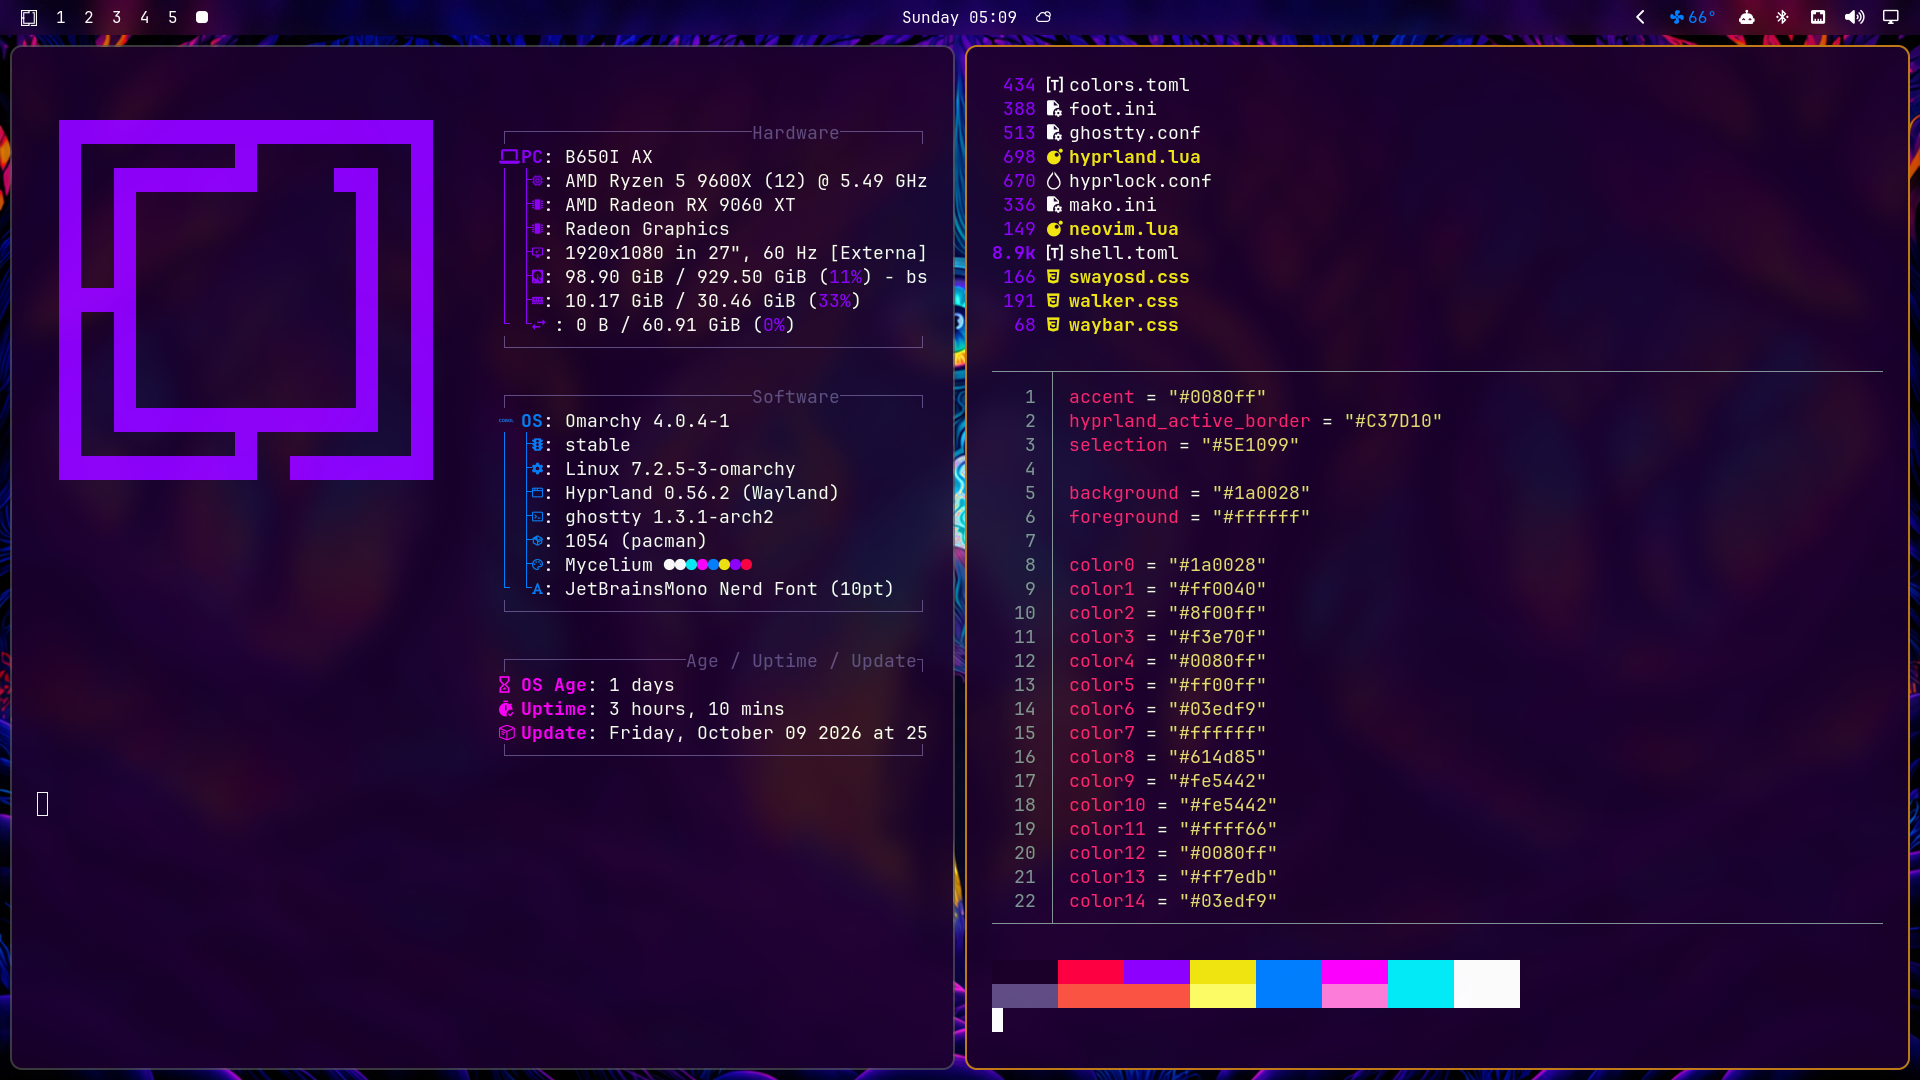
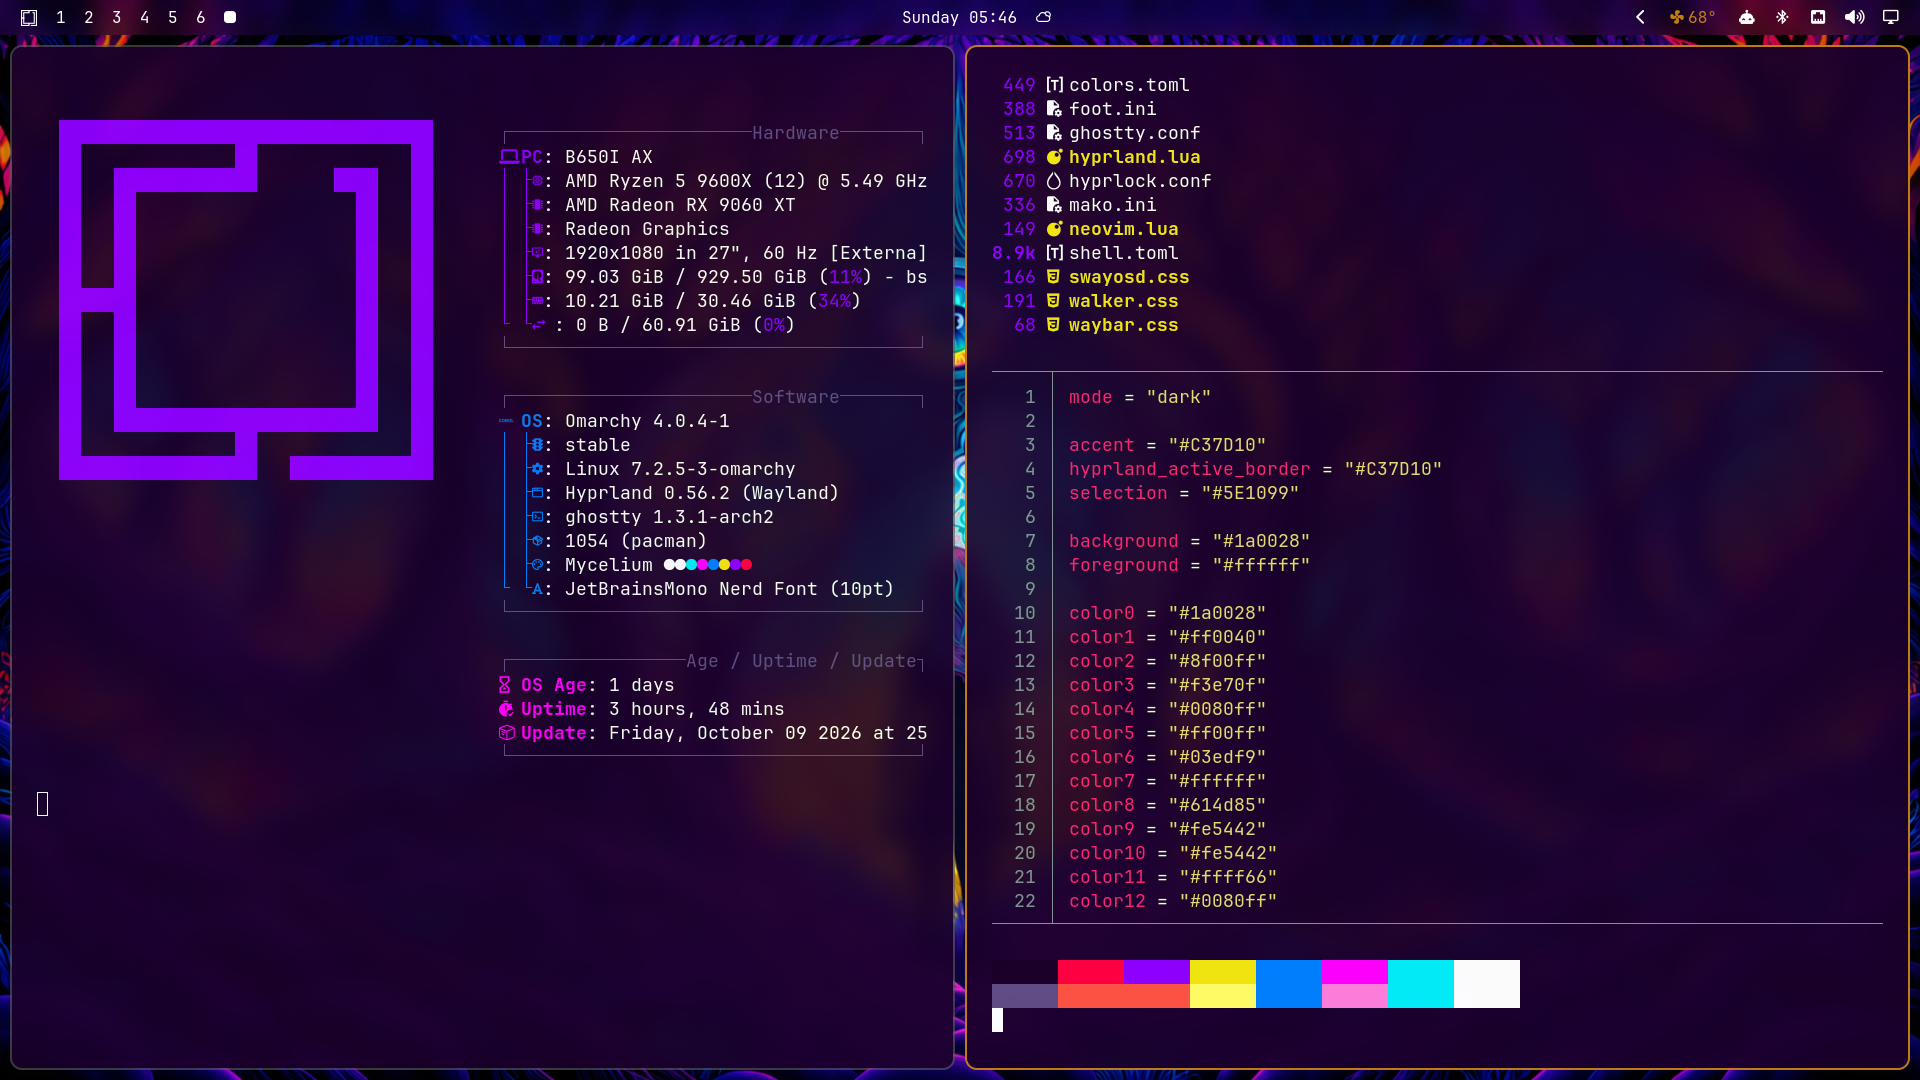
Refresh screenshots with amber accents, add menu and password prompt previews

Changed region(s): [[0.5625, 0.3667, 0.75, 0.8556], [0.0938, 0.0, 0.125, 0.0306]]

diff --git a/README.md b/README.md
@@ -6,6 +6,10 @@ A deep-violet [Omarchy](https://omarchy.org) theme built around a glowing psyche
 
 ![Mycelium desktop](preview-desktop.png)
 
+| Omarchy menu | Password prompt |
+|---|---|
+| ![Omarchy menu](preview-menu.png) | ![Password prompt](preview-password.png) |
+
 ## Install
 
 ### Full install (recommended)
